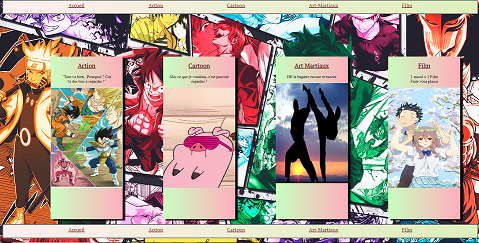
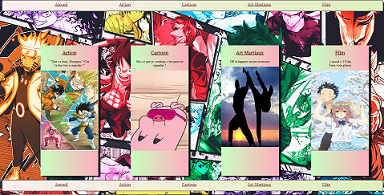
add css

diff --git a/style2.css b/style2.css
@@ -79,44 +79,10 @@ html, body, main {
 }
 
  
-#titleProjet{
-	display: flex;
-	justify-content: center;
-	align-items: center;
-	text-align: center;
-	height: 100px;
-	font-size: 3vh;
-	font-family: 'Roboto', sans-serif;
-}
-
-
-#projets{
-	display: flex;
-	flex-direction: row;
-	flex-wrap: wrap;
-	justify-content: space-between;
-}
 
 
 
-.myProjets{
-	display: flex;
-	width: 50%;
-	
-	height: 300px;
-	justify-content: center;
-	align-items: center;
-}
 
-
-
-.nameProjet{
-	display: flex;
-	justify-content: center;
-	align-items: center;
-	width: 50%;
-	text-align: center;
-}
 
 #contact{
 	background-color: blue;
@@ -150,4 +116,52 @@ html, body, main {
 	opacity: 1;
 	transform: translateY(0);
 	transition: 1s;
+}
+
+
+#projets{
+	display: flex;
+	justify-content: space-around;
+	flex-wrap: wrap;
+}
+
+
+.myProjets {
+  position: relative;
+  width: 30%;
+}
+
+.img {
+  display: block;
+  width: 100%;
+  height: auto;
+}
+
+.nameProjet {
+  position: absolute;
+  top: 0;
+  bottom: 0;
+  left: 0;
+  right: 0;
+  height: 100%;
+  width: 100%;
+  opacity: 0;
+  transition: .5s ease;
+  background-color: #008CBA;
+}
+
+.myProjets:hover .nameProjet {
+  opacity: 0.8;
+}
+
+.textHover {
+  color: white;
+  font-size: 15px;
+  position: absolute;
+  top: 50%;
+  left: 50%;
+  -webkit-transform: translate(-50%, -50%);
+  -ms-transform: translate(-50%, -50%);
+  transform: translate(-50%, -50%);
+  text-align: center;
 }

diff --git a/index.php b/index.php
@@ -31,7 +31,7 @@
 				
 			</div>
 		</section>
-		<nav class="navbar navbar-expand-lg navbar-light bg-light">
+		<nav class="navbar-fixed navbar-expand-lg navbar-light bg-light">
 			
 			<div class="collapse show navbar-collapse" id="navbarNav">
 				<ul class="navbar-nav">
@@ -83,126 +83,145 @@
 			
 
 			<div class="myProjets reveal">
-				<img src="projet/videotheque/index.PNG">
+				<img src="projet/videotheque/index.PNG" class="img">
+				<div class="nameProjet reveal">
+					<div class="textHover">
+						<a href="projet/videotheque/videotheque.html"  target=" ">
+							Videotheque
+							<br /> 
+							<br />
+							Projet HTML / CSS 
+							<br /><br />
+							Ce site contient différentes pages avec des catégories d'animé
+							<br /><br />
+						</a>
+					</div>
+					
+				</div>
 			</div>
-			<div class="nameProjet reveal">
-				<a href="projet/videotheque/videotheque.html"  target=" ">
-					Videotheque
-					<br /> 
-					<br />
-					Projet HTML / CSS 
-					<br /><br />
-					Ce site contient différentes pages avec des catégories d'animé
-					<br /><br />
-				</a>
-			</div>
+			
 
 			<br />
 
 			<div class="myProjets reveal">
-				<img src="projet/fansite/index.PNG" width="50%">
+				<img src="projet/fansite/index.PNG" class="img">
+				<div class="nameProjet reveal ">
+					<div class="textHover">
+						<a href="projet/fansite/fansite.html"  target=" ">
+							FanSite
+							<br /><br />
+							Projet HTML / CSS 
+							<br /><br />
+							Pour ce projet on a fait un FanSite basé sur le jeux vidéo League Of Legend.
+							<br />
+							On y retrouve une page actualité, une page sur les événements en cours et pleins d'autres.
+							<br /><br />
+						</a>
+					</div>
+					
+				</div>
 			</div>
 
-			<div class="nameProjet reveal ">
-				<a href="projet/fansite/fansite.html"  target=" ">
-					FanSite
-					<br /><br />
-					Projet HTML / CSS 
-					<br /><br />
-					Pour ce projet on a fait un FanSite basé sur le jeux vidéo League Of Legend.
-					<br />
-					On y retrouve une page actualité, une page sur les événements en cours et pleins d'autres.
-					<br /><br />
-				</a>
-			</div>
+			
 			
 			<br />
 
 			<div class="myProjets reveal">
-				<img src="projet/forum/index.PNG" width="50%">
+				<img src="projet/forum/index.PNG" class="img">
+				<div class="nameProjet reveal ">
+					<div class="textHover">
+						<a href="projet/forum/index.php" target=" ">
+							Anime Forum
+							<br><br />
+							Projet HTML / CSS / PHP 
+							<br />
+							Un site présentant un Forum d'animé.
+							<br />
+							Possibilité de s'inscire et de se connecter pour pouvoir créer des threads et y laisser des messages.
+							<br /><br />
+						</a>
+					</div>
+					
+
+				</div>
 			</div>
 
-			<div class="nameProjet reveal ">
-
-				<a href="projet/forum/index.php" target=" ">
-					Anime Forum
-					<br><br />
-					Projet HTML / CSS / PHP 
-					<br />
-					Un site présentant un Forum d'animé.
-					<br />
-					Possibilité de s'inscire et de se connecter pour pouvoir créer des threads et y laisser des messages.
-					<br /><br />
-				</a>
-
-			</div>
+			
 
 			<br />
 
 			<div class="myProjets reveal">
-				<img src="projet/camping/index.PNG" width="50%">
+				<img src="projet/camping/index.PNG" class="img">
+				<div class="nameProjet reveal">
+					<div class="textHover">
+						<a href="projet/camping/index.php" target=" ">
+							Les Happy Sardines
+							<br><br />
+
+							Projet HTML / CSS / PHP 
+							<br />
+							Un site de réservation de camping
+							<br />
+							Possibilité de s'inscrire  et de se connecter pour pouvoir réserver une place de camping.
+							<br />
+						</a>
+					</div>
+					
+
+				</div>
 			</div>
 
-			<div class="nameProjet reveal">
-				<a href="projet/camping/index.php" target=" ">
-					Les Happy Sardines
-					<br><br />
-
-					Projet HTML / CSS / PHP 
-					<br />
-					Un site de réservation de camping
-					<br />
-					Possibilité de s'inscrire  et de se connecter pour pouvoir réserver une place de camping.
-					<br />
-				</a>
-
-			</div>
+			
 
 			<br />
 
 			<div class="myProjets reveal" >
-				<img src="projet/reservation-salle/index.PNG" width="50%">
+				<img src="projet/reservation-salle/index.PNG" class="img">
+				<div class="nameProjet reveal">
+					<div class="textHover">
+						<a href="projet/reservation-salle/index.php" target=" ">
+							Réservation Salle
+							<br /><br />
+
+							Projet HTML / CSS / PHP 
+							<br />
+							Un site de réservation de salles.
+							<br />
+							Possibilité de s'inscrire et de se connecter pour pouvoir réserver une salle.
+							<br />
+							Le site comprend aussi un planning pour voir les dates déja réservées par les autres utilisateurs.
+						</a>
+					</div>
+
+					
+
+
+				</div>
 			</div>
 
-			<div class="nameProjet reveal">
-
-
-				<a href="projet/reservation-salle/index.php" target=" ">
-					Réservation Salle
-					<br /><br />
-
-					Projet HTML / CSS / PHP 
-					<br />
-					Un site de réservation de salles.
-					<br />
-					Possibilité de s'inscrire et de se connecter pour pouvoir réserver une salle.
-					<br />
-					Le site comprend aussi un planning pour voir les dates déja réservées par les autres utilisateurs.
-				</a>
-
-
-			</div>
 
 			<br />
 
 			<div class="myProjets reveal">
-				<img src="projet/boutique/boutique.PNG" width="50%">
+				<img src="projet/boutique/boutique.PNG" class="img">
+				<div class="nameProjet reveal ">
+					<div class="textHover">
+						<a href="projet/boutique/index.php" target=" ">
+							Unlucky Market
+							<br /> <br />
+							Projet HTML / CSS / PHP
+							<br /><br />
+							Boutique de jeux video en ligne
+							<br />
+							Contient differente fonctionnalité qui sont propre a une boutique en ligne ( Panier, Barre de recherche,  etc.... ).
+						</a>
+					</div>
+
+					
+
+				</div>
 			</div>
 
-			<div class="nameProjet reveal ">
-
-
-				<a href="projet/boutique/index.php" target=" ">
-					Unlucky Market
-					<br /> <br />
-					Projet HTML / CSS / PHP
-					<br /><br />
-					Boutique de jeux video en ligne
-					<br />
-					Contient differente fonctionnalité qui sont propre a une boutique en ligne ( Panier, Barre de recherche,  etc.... ).
-				</a>
-
-			</div>
 			<br />
 
 		</section>
@@ -222,26 +241,25 @@
 			</p>
 
 			<section id="contactMe">
-				<form method="post" action="">
+				<form method="post" action="" id="formulaireContact">
 					<label>Votre e-mail</label>
 					<br />
-					<input type="email" name="email" required>
+					<input type="email" name="email" required id="email">
 					<br />
 
 					<label>Sujet</label>
 					<br />
-					<input type="text" name="sujet" required>
+					<input type="text" name="sujet" required id="sujet">
 					<br />
 					
 					<label>Message</label>
 					<br />
-					<textarea name="message" style="resize: none;" rows="8" cols="25"></textarea>
+					<textarea name="message" style="resize: none;" rows="8" cols="25" id="message"></textarea>
 					<br />
 					<br />
 
 					<input type="submit" name="send">
 				</form>
-
 				<?php
 				if (isset($_POST['send'])) 
 				{
@@ -264,10 +282,16 @@
 								echo '<p>Erreur.</p>';
 							}
 						}
+						$_POST['email'] = '';
+						$_POST['suejt'] = '';
+						$_POST['message'] = '';
+
 					}
 				}
 
 				?>
+
+				
 			</section>
 			
 		</section>
@@ -275,6 +299,7 @@
 		
 	</main>
 	<script>
+
 		const ratio = .1
 
 		const options = {
